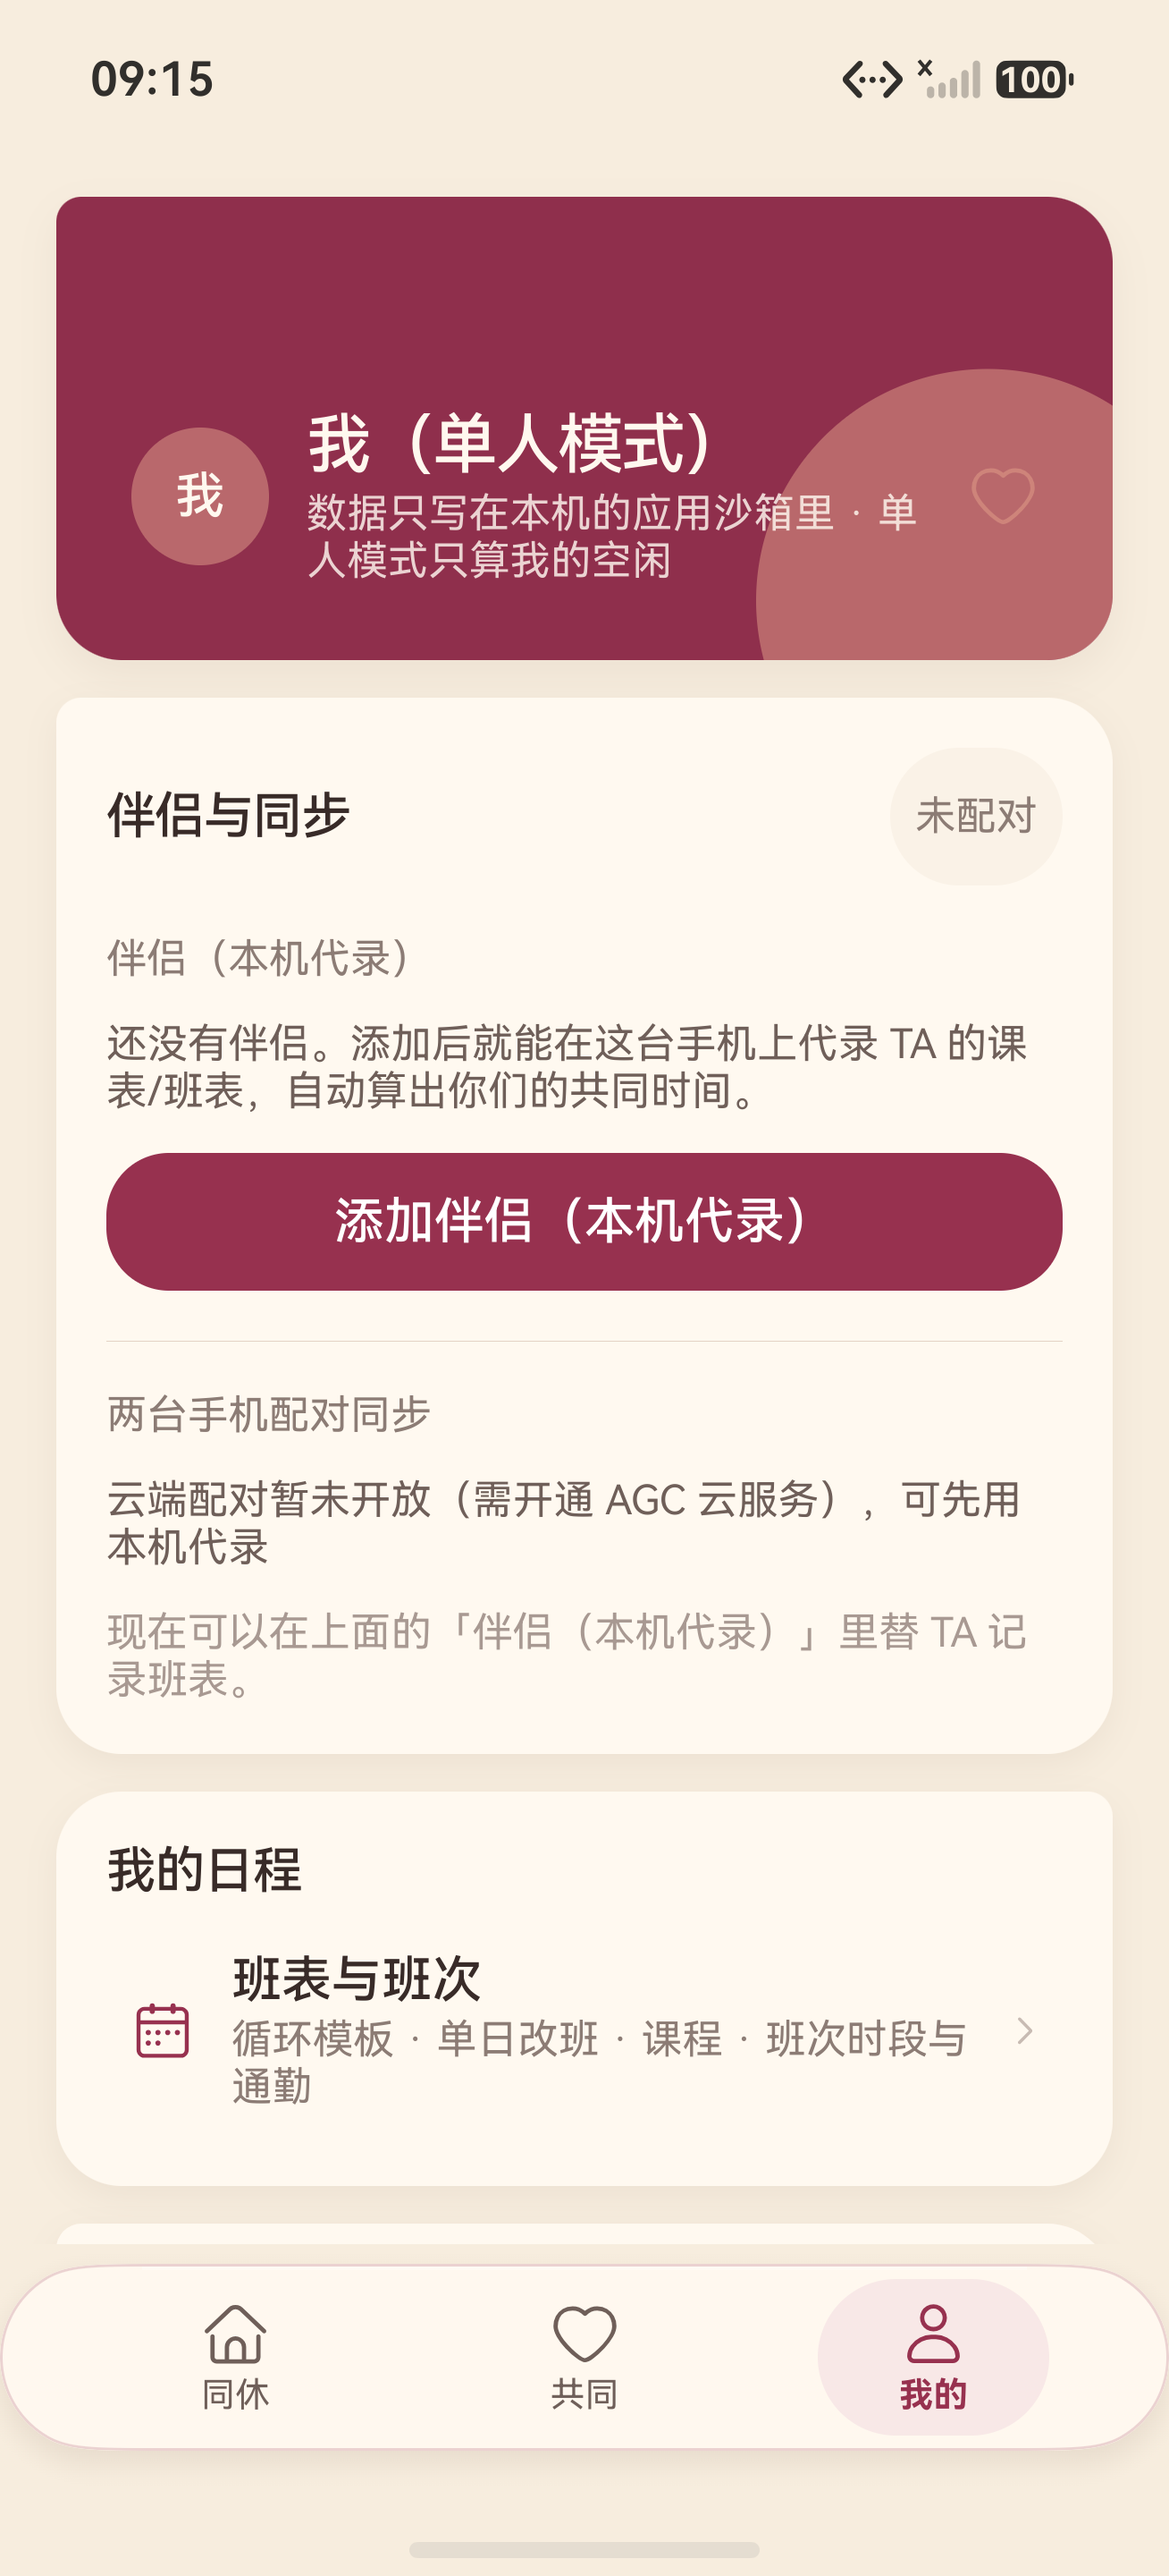
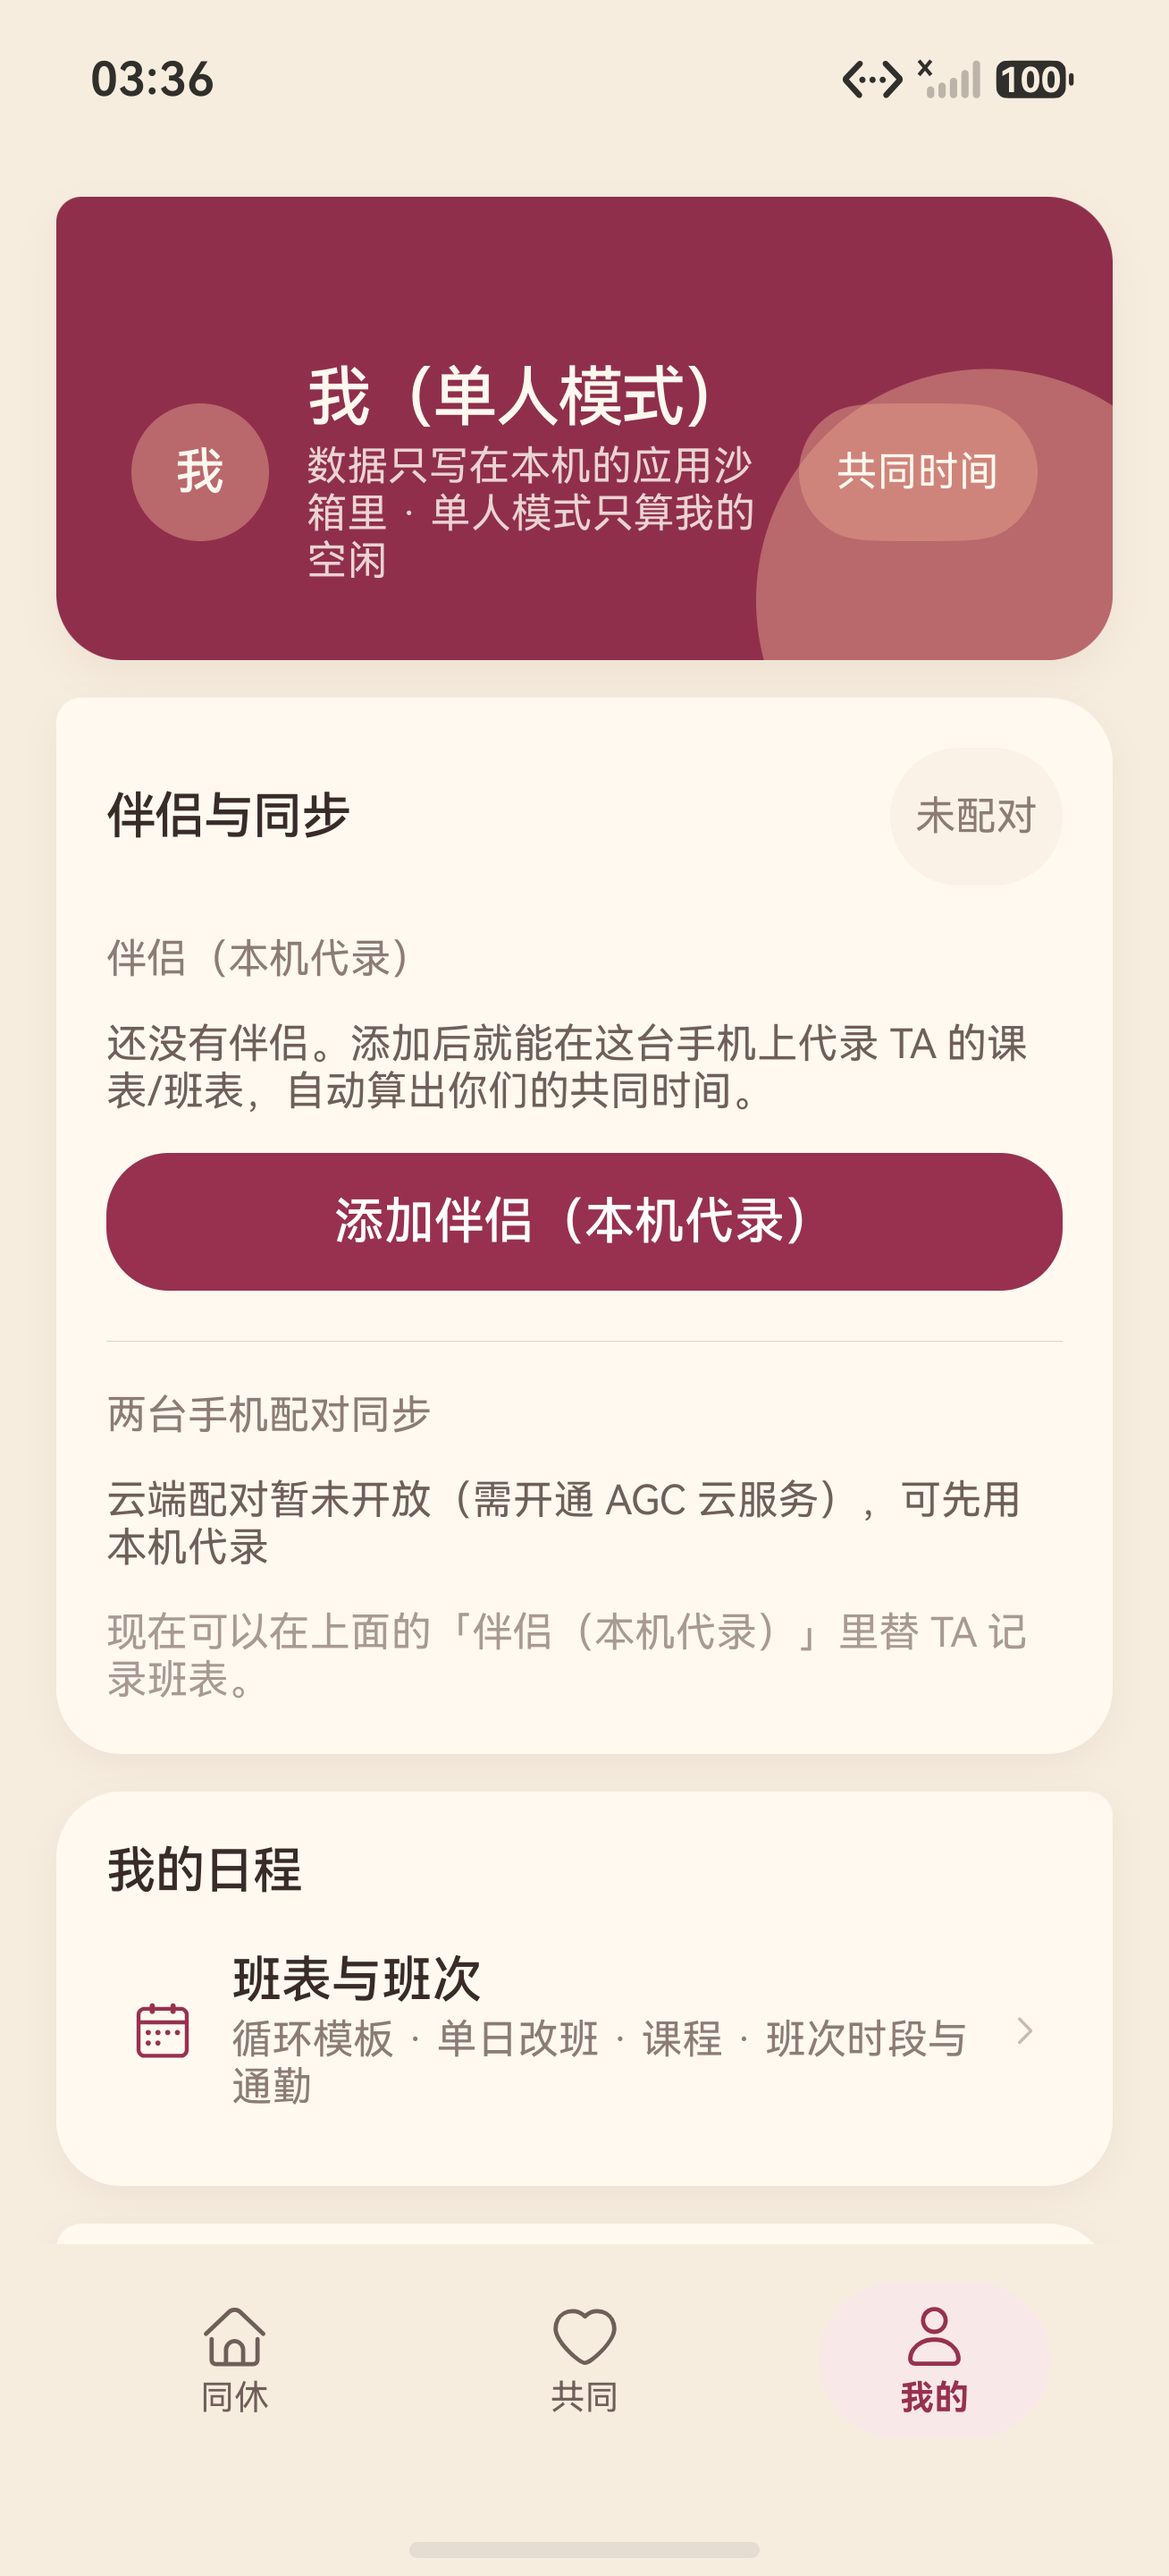
fix(me): hero 右侧的装饰心形换成「共同时间」出口
原型在 hero 右边给了一颗去共同时间的 pill，App 那里只有一个不参与信息的心形。
样式照首页 hero 上那颗按钮的配方，不新造颜色；焦点、热区、朗读名一起补上。

diff --git a/docs/design/ui-parity-2026-09-23.md b/docs/design/ui-parity-2026-09-23.md
@@ -382,6 +382,12 @@ App 把摘要与编辑合并成一屏选择器，用户点日格后看不到"这
 - **D-17** 首页 hero：原型是 `2 天后 · 9月25日 周五 / 去计划 ↗ / 12小时 / 10:00–22:00 / 完整同休日`。App 单人态显示的是自创空态「还没有录入伴侣」，无法比对。**见 §6-E02。**
 - **D-18** 我的 hero：原型右侧有「共同时间」按钮，App 只有一个装饰心形。补出口按钮。
 
+  **已整改（2026-09-24 设备复验）**：`MeView.identityCard()` 右侧那颗装饰 `SymbolGlyph(heart)` 换成「共同时间」pill，点击走 `onOpenRoute(NavRoutes.COMMON_TIME)`——路由种类只有壳层知道，页面继续只报名字（与 `:1203` 的班表入口同一机制，不自己碰 Tab 索引）。
+  - 样式沿用仓里已有的"hero 上的那颗按钮"配方（首页 `NextWindowHero.ets:133-146` 的「去添加 ›」：`heroText` 前景 + `heroGlow` 底 + pill 圆角），没为新按钮造颜色。三件套照 D-16 那颗「本周」的规矩补齐：`focusable(true)`、`constraintSize({ minHeight: minHit })`、`accessibilityText('去共同时间页')`。
+  - **代价，实测到才写**：单人态那句 22 字副标题从 2 行变 3 行（文字列 `[343,548][1028,654]` → `[343,495][846,654]`，列宽 685px → 503px）。这是"在文字右侧塞一颗 267px 宽的按钮"的必然结果，不是布局错；**卡片本身没变高**——下一张卡的首行「伴侣与同步」改前改后都落在 `[119,880]`，多出来的一行是把标题往上顶了 53px，整页没有位移。代录态（18 字）与已配对态（17 字）副标题更短，**预计仍是 2 行，但没取证**——那两态要设备上有伴侣档案，与 §6-E02 同一处卡点。要不要顺手压那句副标题属文案改动，本条没要求，留给用户定。
+  - 复验（clean 出包 → `hdc install -r` → `aa force-stop` ＋ `aa start` 冷启 → 「我的」→ `shot.sh`）：`app/06-me.png`（`layout/06-me.json`）pill bounds `[894,451][1161,605]`，与标题/副标题同一行、垂直居中。出口按真了就地图：点 pill 中心后 `dumpLayout` 头两行是 `共同时间 [63,220][345,306]` / `单人模式 · 未来 4 个月 [63,313][525,366]`，即落在共同时间页。同页的 `07-me-scrolled`、`08-me-bottom` 未刷新：整页没有位移，而本轮手动滑动的落点与 §6 链路规定的不一致，重拍只会引入滚动漂移。
+  - 本轮无逻辑与常量改动：`node tools/test/run.mjs` 198 passed / 0 failed、`typecheck: 0 errors`、`copy: PASS`；clean 出包 `ArkTS:WARN` 346，与基线同值。
+
 ---
 
 ### D-20 · 「提醒与通知」连同通知链路一起删 · P1 · 改 App（2026-09-24 定稿）
